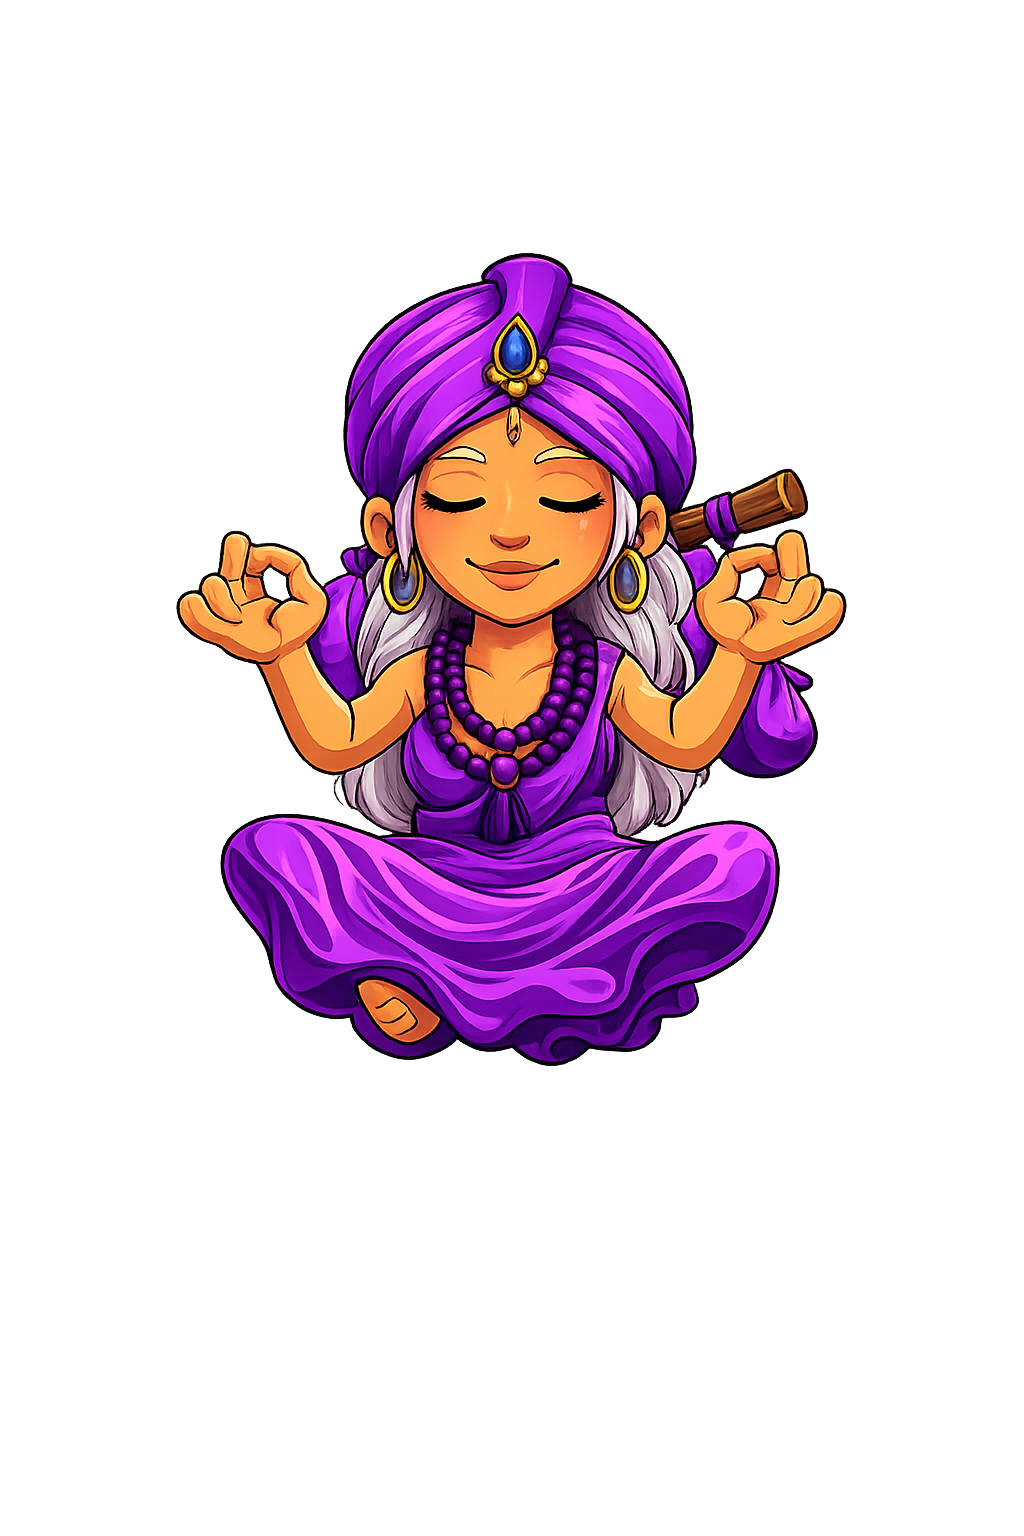
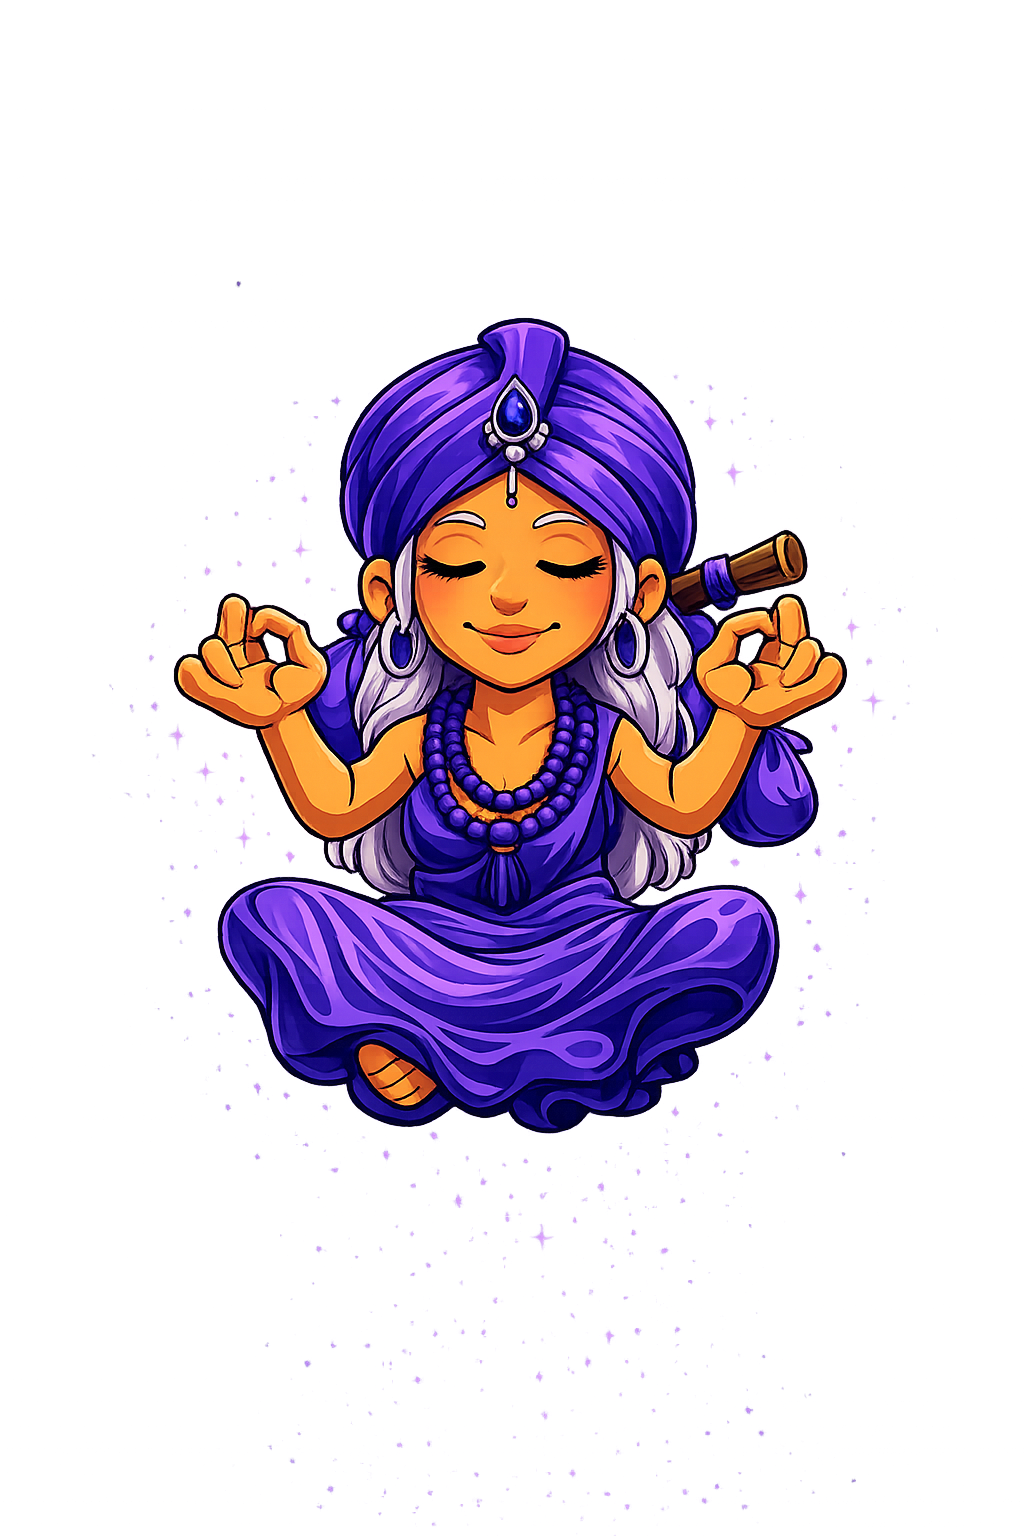
fixes header

Changed region(s): [[0.1562, 0.1562, 0.8438, 0.75]]

diff --git a/mysticai-mobile/src/screens/HomeScreen.tsx b/mysticai-mobile/src/screens/HomeScreen.tsx
@@ -276,6 +276,7 @@ export default function HomeScreen() {
   const { reopenTutorialById } = useTutorial();
   const { triggerInitial: triggerInitialTutorials } = useTutorialTrigger(TUTORIAL_SCREEN_KEYS.HOME);
   const [currentHour, setCurrentHour] = useState(() => new Date().getHours());
+  const [headerHeight, setHeaderHeight] = useState(0);
   const [cmsHeroBanners, setCmsHeroBanners] = useState<CmsBanner[]>([]);
   const [cmsSections, setCmsSections] = useState<HomeSection[]>([]);
   // CMS içeriği dashboard verisiyle aynı anda paralel yüklenir.
@@ -621,12 +622,15 @@ export default function HomeScreen() {
         ]}
         showsVerticalScrollIndicator={false}
       >
-        <AppSurfaceHeader
-          title=""
-          variant="home"
-          avatarUri={avatarUrl}
-          leftActions={(
-            avatarUrl ? (
+        <View
+          style={styles.headerWrap}
+          onLayout={(e) => setHeaderHeight(e.nativeEvent.layout.height)}
+        >
+          <AppSurfaceHeader
+            title=""
+            variant="home"
+            avatarUri={avatarUrl}
+            leftActions={avatarUrl ? (
               <Pressable
                 onPress={handlePressProfile}
                 accessibilityRole="button"
@@ -641,34 +645,41 @@ export default function HomeScreen() {
                   accessibilityIgnoresInvertColors
                 />
               </Pressable>
-            ) : (
-              <Pressable
-                onPress={handlePressProfile}
-                accessibilityRole="button"
-                accessibilityLabel={t('common.profile')}
-                style={({ pressed }) => [styles.guruBtn, pressed && styles.avatarBtnPressed]}
-              >
-                <Image
-                  source={require('../../assets/guru_transparent.png')}
-                  style={styles.guruImg}
-                  resizeMode="contain"
-                  accessibilityIgnoresInvertColors
+            ) : undefined}
+            rightActions={(
+              <>
+                <MonetizationQuickBar />
+                <SurfaceHeaderIconButton
+                  iconName="notifications-outline"
+                  onPress={handlePressNotifications}
+                  accessibilityLabel={notificationA11y}
+                  badgeText={notificationCount > 0 ? notificationBadgeText : null}
                 />
-              </Pressable>
-            )
-          )}
-          rightActions={(
-            <>
-              <MonetizationQuickBar />
-              <SurfaceHeaderIconButton
-                iconName="notifications-outline"
-                onPress={handlePressNotifications}
-                accessibilityLabel={notificationA11y}
-                badgeText={notificationCount > 0 ? notificationBadgeText : null}
+              </>
+            )}
+          />
+          {!avatarUrl && (
+            <Pressable
+              onPress={handlePressProfile}
+              accessibilityRole="button"
+              accessibilityLabel={t('common.profile')}
+              style={({ pressed }) => [
+                styles.guruBtn,
+                headerHeight > 0 && { top: (headerHeight - 140) / 2 + 7 },
+                pressed && styles.avatarBtnPressed,
+              ]}
+            >
+              <Image
+                source={isDark
+                  ? require('../../assets/guru_transparent_light.png')
+                  : require('../../assets/guru_transparent.png')}
+                style={styles.guruImg}
+                resizeMode="contain"
+                accessibilityIgnoresInvertColors
               />
-            </>
+            </Pressable>
           )}
-        />
+        </View>
 
         <GreetingRow text={greetingText} />
 
@@ -896,11 +907,11 @@ function makeStyles(C: ThemeColors, isDark: boolean) {
       backgroundColor: C.surfaceGlass,
     },
     avatarBtn: {
-      width: 48,
-      height: 48,
+      width: 80,
+      height: 0,
       borderRadius: radius.pill,
       overflow: 'hidden',
-      borderWidth: 1.5,
+      borderWidth: 1,
       borderColor: C.primary,
       backgroundColor: isDark ? C.surfaceGlass : C.primarySoft,
       ...shadowSubtle,
@@ -909,22 +920,22 @@ function makeStyles(C: ThemeColors, isDark: boolean) {
       opacity: 0.78,
     },
     avatarImg: {
-      width: 48,
-      height: 48,
+      width: 80,
+      height: 80,
     },
     // Fallback: no circle, bleeds beyond header, shifted left, vertically centered
-    // Fallback: no circle, shifted left, pushed down via transform (no layout impact)
+    headerWrap: {
+      position: 'relative',
+    },
+    // Absolutely positioned over the header — no layout impact
     guruBtn: {
-      marginVertical: -spacing.md - 32,
-      marginLeft: -spacing.cardPadding - 16,
-      height: spacing.chevronHitArea + spacing.md * 2 + 64,
-      alignItems: 'center',
-      justifyContent: 'center',
+      position: 'absolute',
+      left: -spacing.screenPadding,
+      zIndex: 10,
     },
     guruImg: {
-      width: 150,
-      height: spacing.chevronHitArea + spacing.md * 2 + 64,
-      transform: [{ translateY: 10 }],
+      width: 140,
+      height: 140,
     },
     retryWrap: {
       marginTop: spacing.sectionGap,
